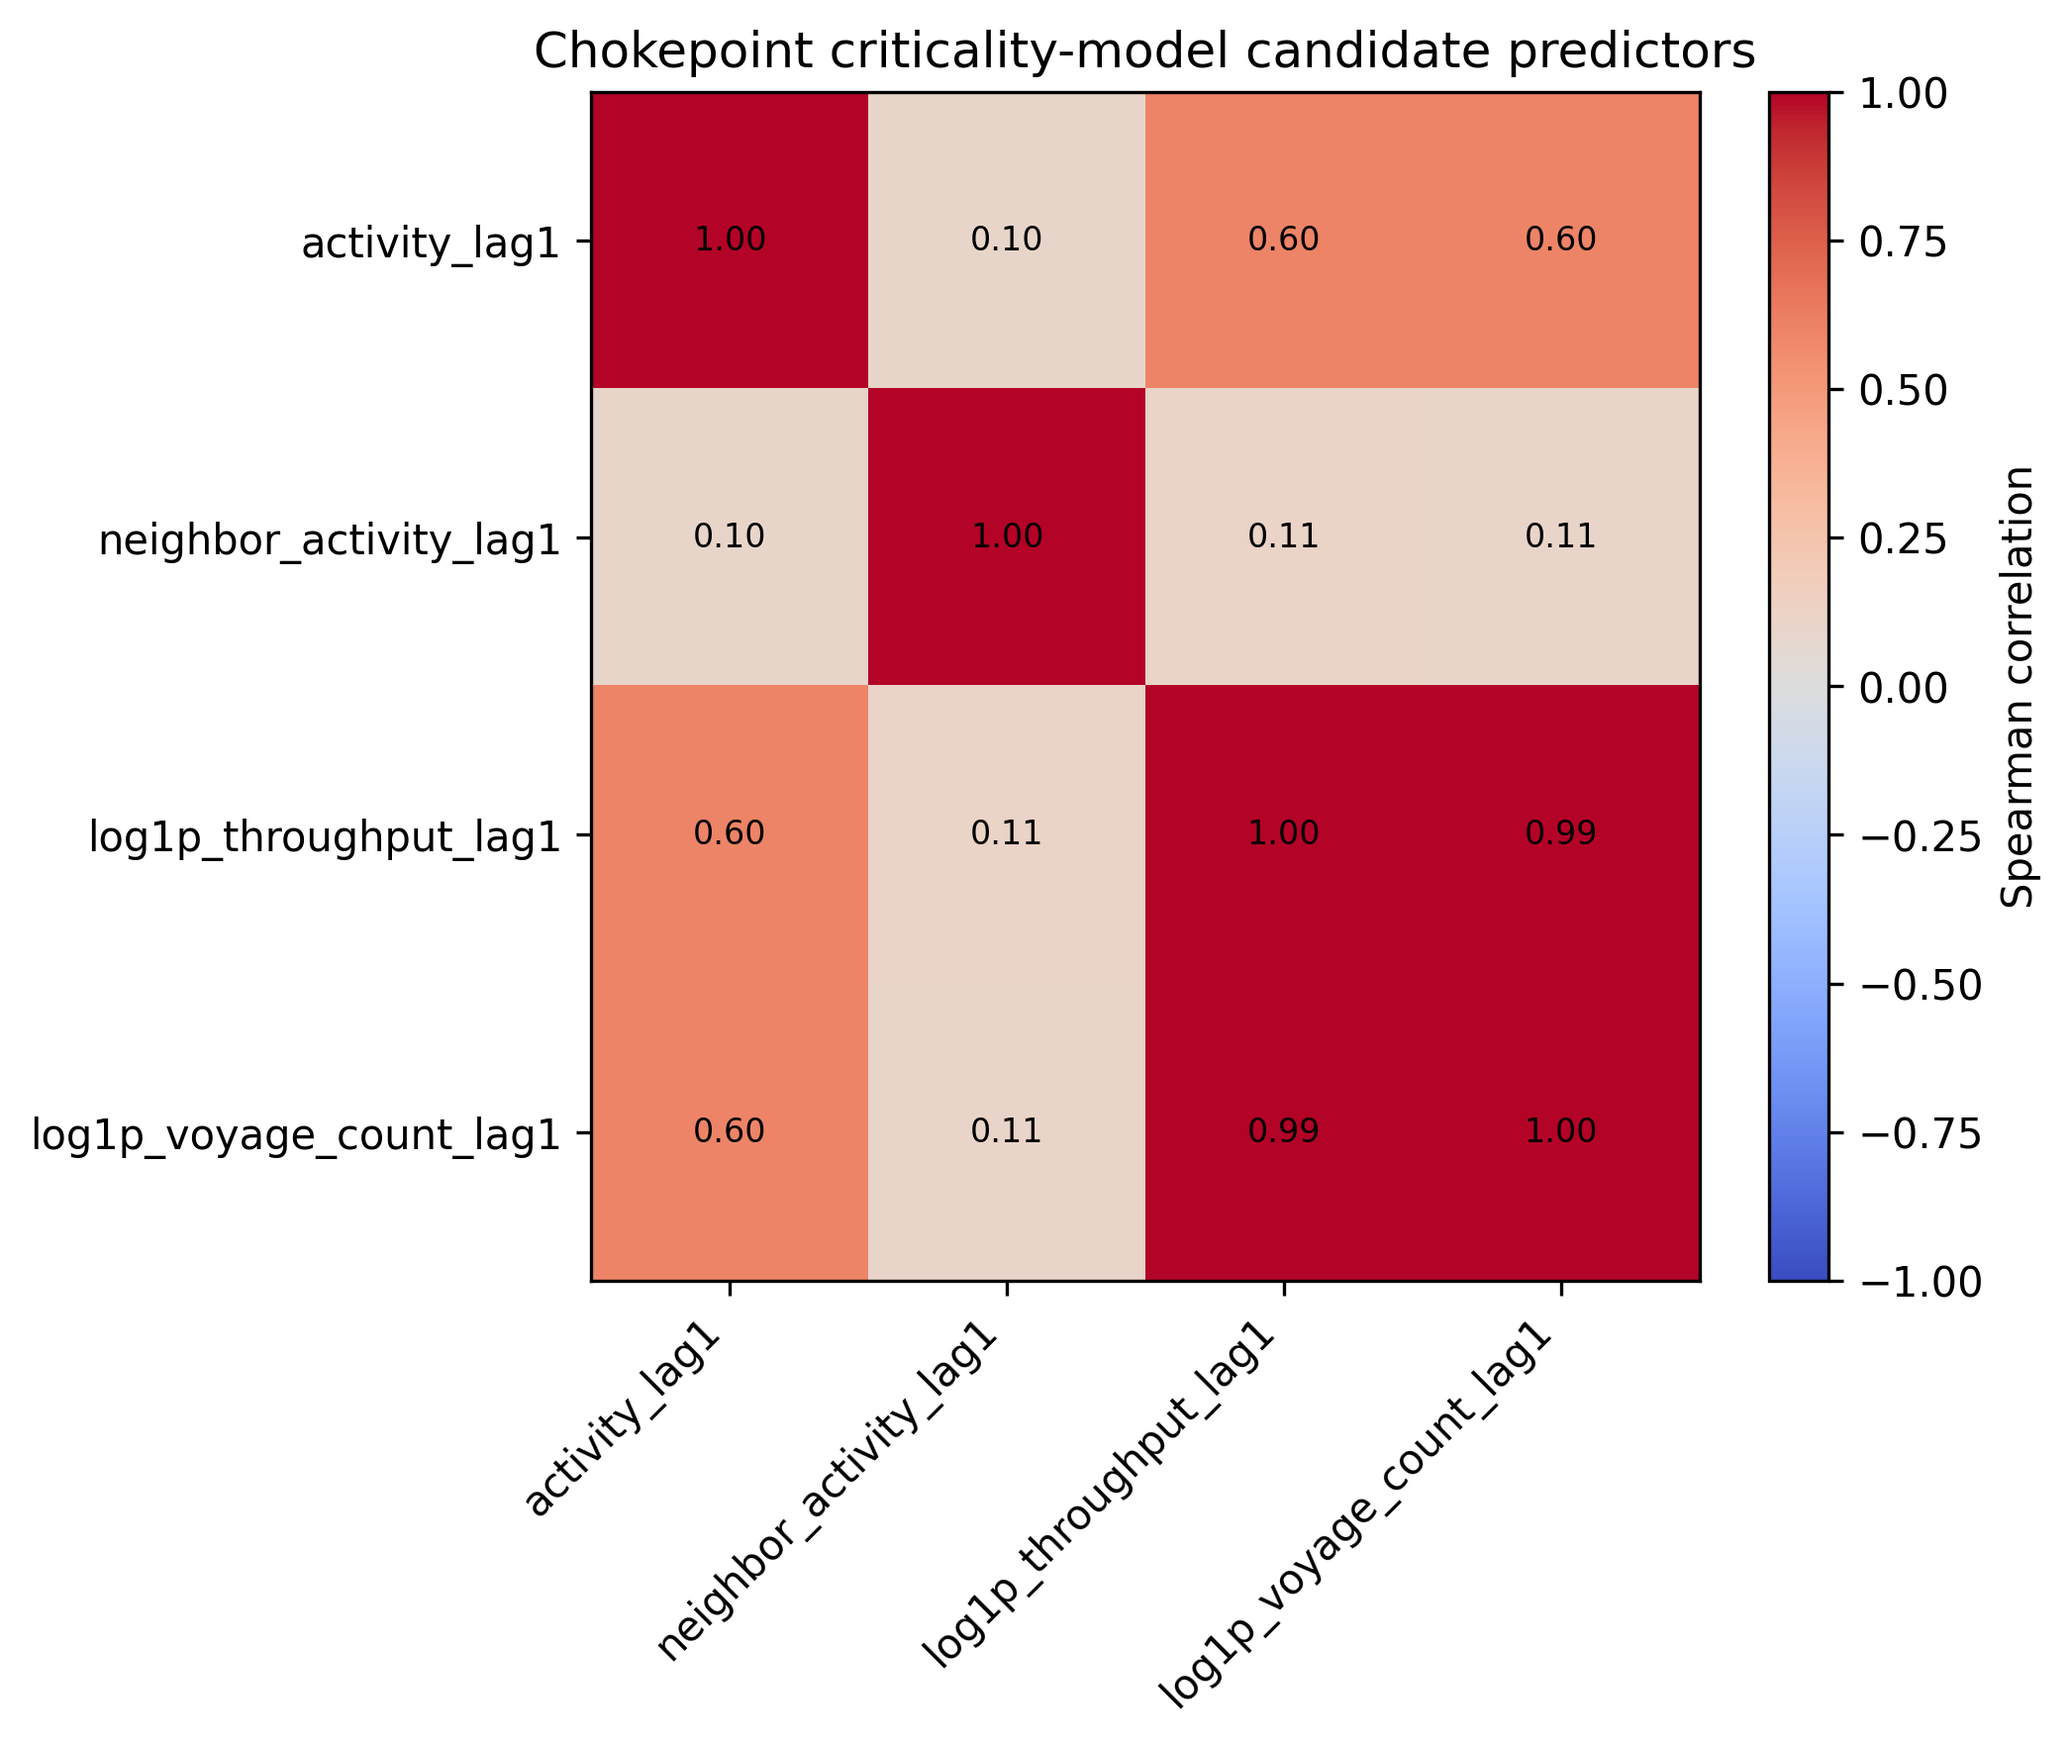
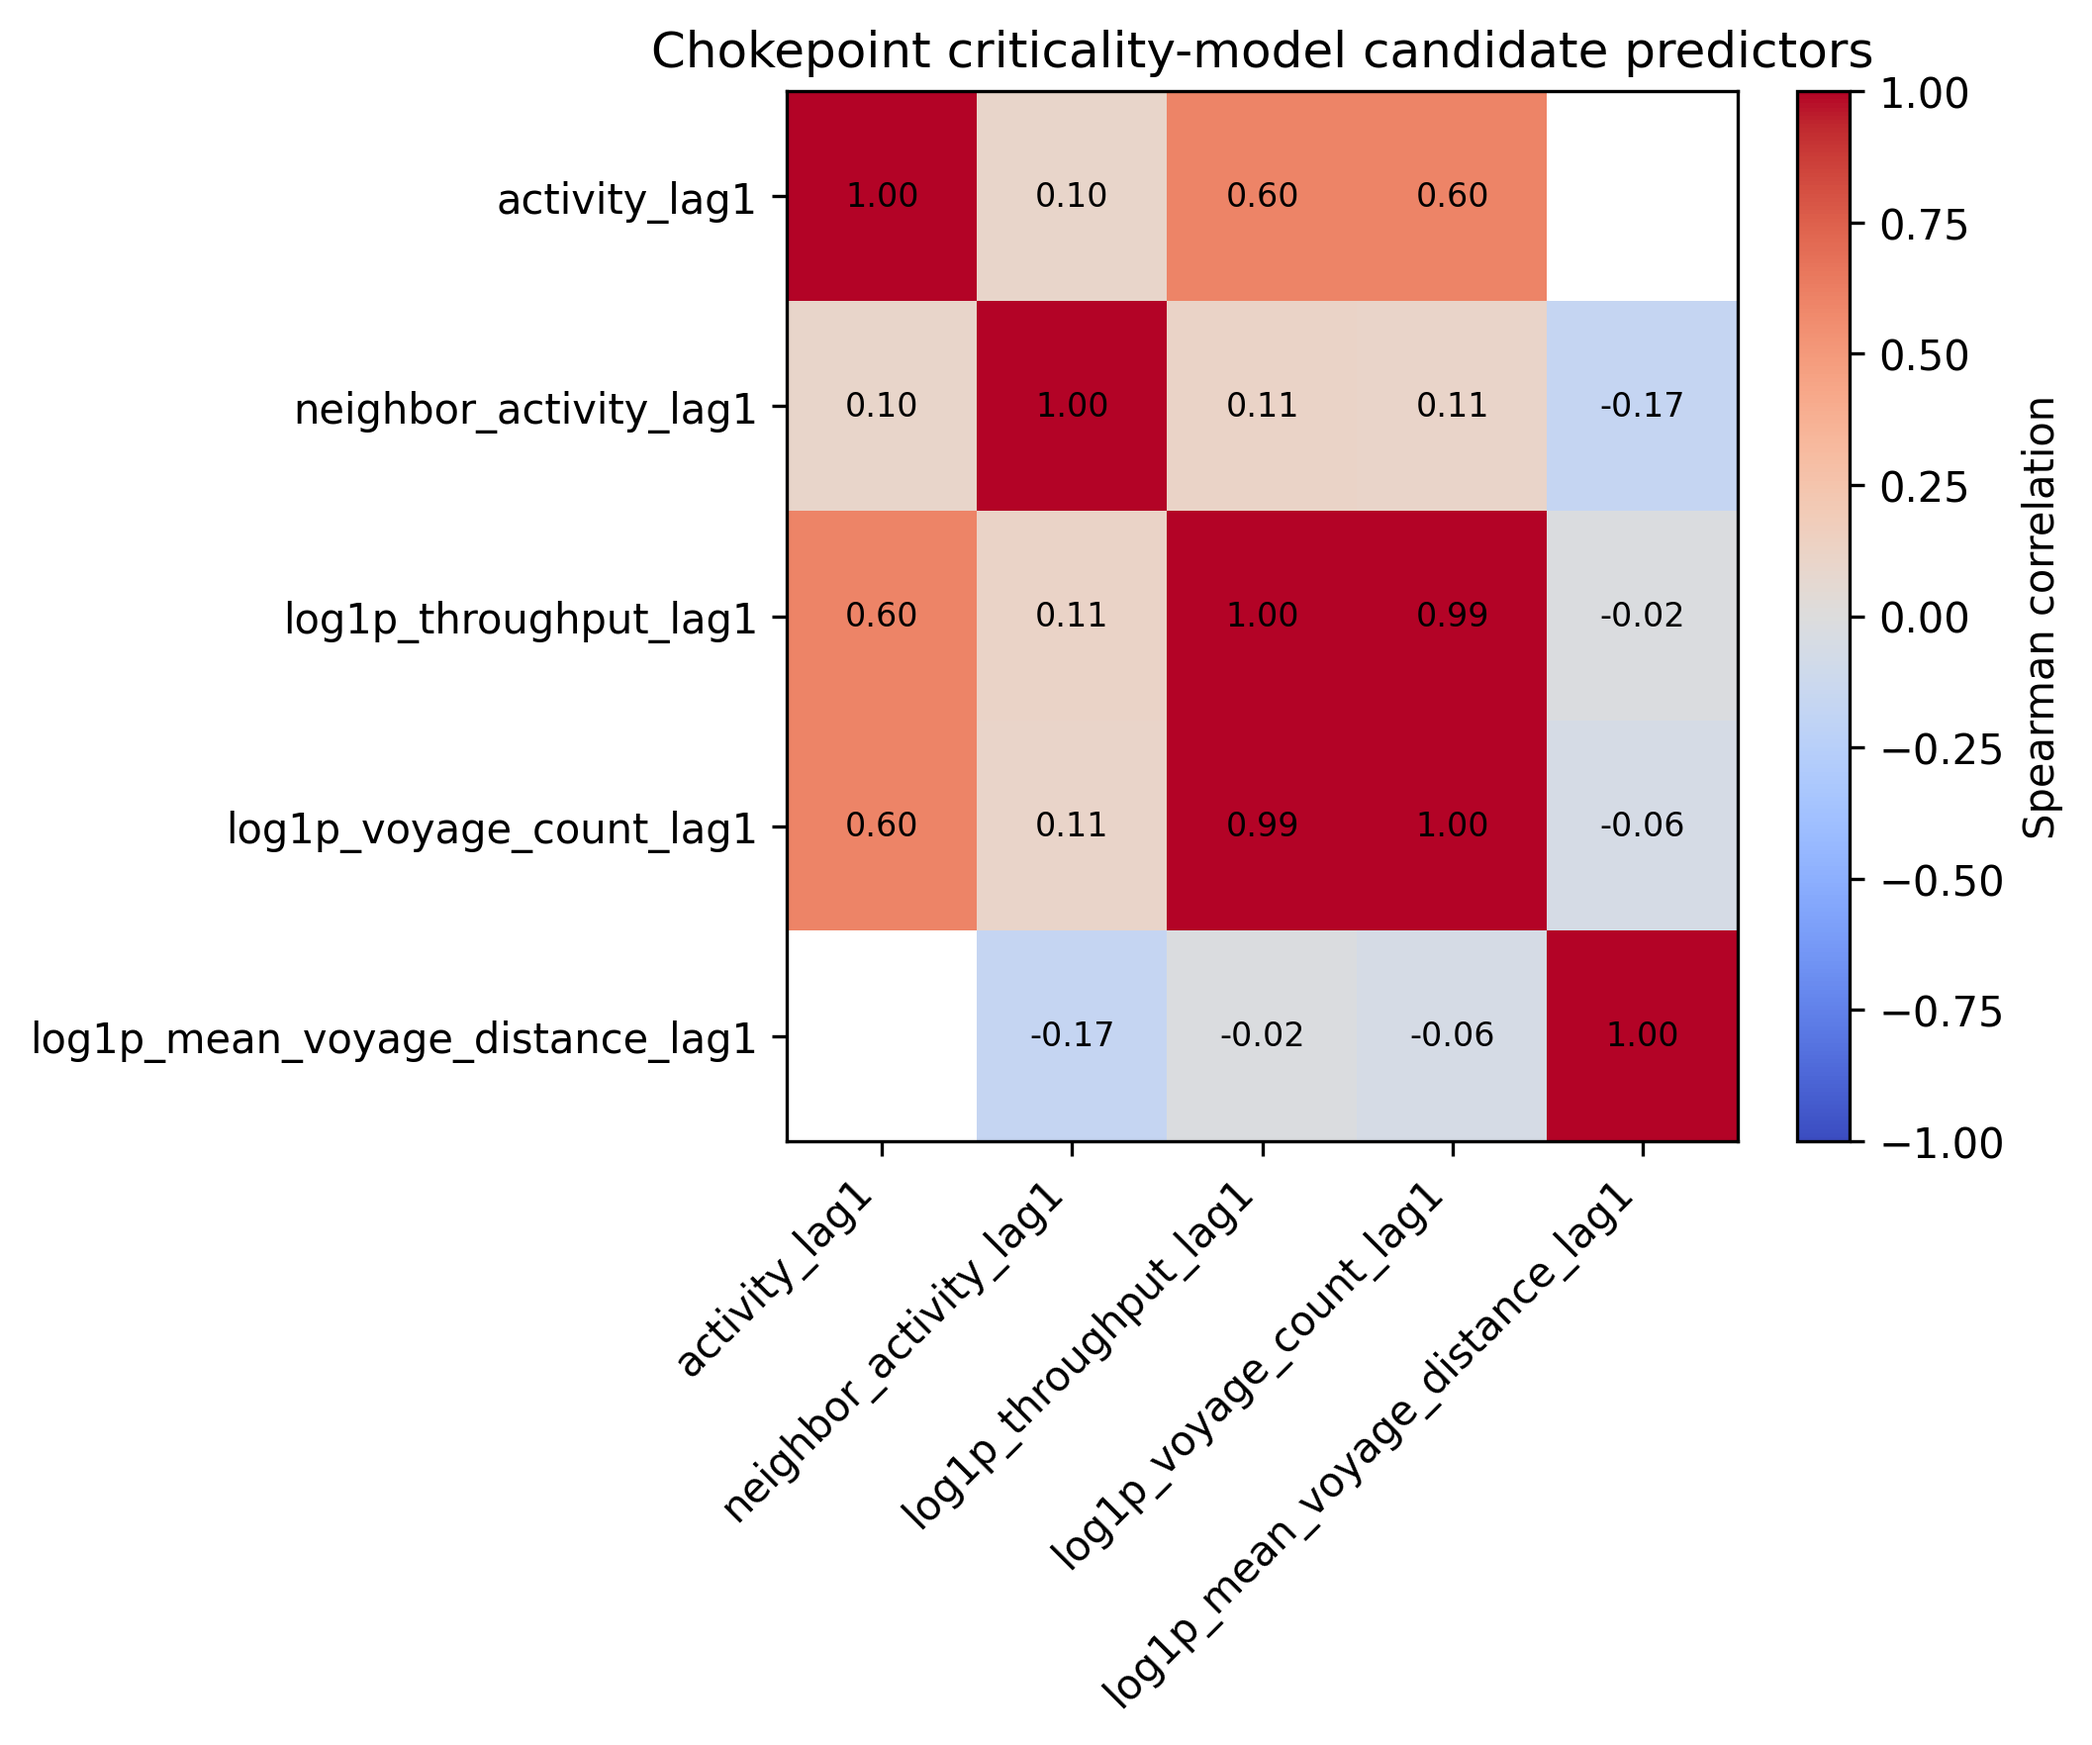
add mean voyage distance to chokepoints

diff --git a/scripts/analysis/build_model_ready_panels.py b/scripts/analysis/build_model_ready_panels.py
@@ -22,6 +22,7 @@ PROCESSED_DIR = BASE_DIR / "data" / "processed"
 NODE_MONTH_FILE = (
     BASE_DIR / "eda_outputs" / "node_month" / "data" / "node_month_metrics.csv"
 )
+
 TERMINAL_MONTH_FILE = (
     BASE_DIR
     / "eda_outputs"
@@ -36,8 +37,13 @@ STRUCTURE_FILE = (
     / "data"
     / "node_month_structure_metrics.csv"
 )
+
 NODES_FILE = PROCESSED_DIR / "LNG_multilayer_nodes_observed.csv"
 EDGES_FILE = PROCESSED_DIR / "LNG_multilayer_edges_monthly.csv"
+
+CHOKEPOINT_DISTANCE_FILE = (
+    PROCESSED_DIR / "chokepoint_month_voyage_distance.csv"
+)
 
 OUTPUT_DIR = PROCESSED_DIR / "model_ready"
 MODEL_DIAGNOSTICS_DIR = (
@@ -80,6 +86,11 @@ def load_inputs():
     terminal_month = read_monthly_csv(TERMINAL_MONTH_FILE, ["terminal_id"])
     structure = read_monthly_csv(STRUCTURE_FILE, ["node_id"])
 
+    chokepoint_distance = read_monthly_csv(
+        CHOKEPOINT_DISTANCE_FILE,
+        ["node_id"],
+    )
+    
     nodes = pd.read_csv(NODES_FILE)
     edges = pd.read_csv(EDGES_FILE)
     require_columns(
@@ -98,7 +109,7 @@ def load_inputs():
     edges["to_node_id"] = edges["to_node_id"].astype(str)
     edges["period_month"] = pd.to_datetime(edges["period_month"], errors="raise")
 
-    return node_month, terminal_month, structure, nodes, edges
+    return node_month, terminal_month, structure, nodes, edges, chokepoint_distance
 
 
 def add_seasonality(frame):
@@ -375,7 +386,7 @@ def build_terminal_panel(terminal_month, activity_panel, structure, nodes):
     return terminal.sort_values(["period_month", "terminal_id"]).reset_index(drop=True)
 
 
-def build_chokepoint_panel(node_month, activity_panel, structure):
+def build_chokepoint_panel(node_month, activity_panel, structure, chokepoint_distance):
     require_columns(
         node_month,
         {
@@ -419,10 +430,15 @@ def build_chokepoint_panel(node_month, activity_panel, structure):
         how="left",
         validate="one_to_one",
         suffixes=("", "_structure"),
+    ).merge(
+        chokepoint_distance,
+        on=["node_id", "period_month"],
+        how="left",
+        validate="one_to_one",
     )
     
     chokepoints = add_seasonality(chokepoints)
-
+    
     columns_to_drop = [
         "country",
         "flow_imbalance",
@@ -431,10 +447,23 @@ def build_chokepoint_panel(node_month, activity_panel, structure):
 
     chokepoints = chokepoints.drop(columns_to_drop, errors="ignore",)
 
+    chokepoints = chokepoints.sort_values(
+        ["node_id", "period_month"]
+    ).reset_index(drop=True)
+
+    grouped = chokepoints.groupby("node_id", sort=False)
+
+    chokepoints["mean_voyage_distance_lag1"] = (
+        grouped["mean_voyage_distance"].shift(1)
+    )
+
+    chokepoints["log1p_mean_voyage_distance_lag1"] = np.log1p(
+        chokepoints["mean_voyage_distance_lag1"]
+    )
+
     return chokepoints.sort_values(
         ["period_month", "node_id"]
     ).reset_index(drop=True)
-
 # ============================================================
 # MODEL CORRELATION DIAGNOSTICS
 # ============================================================
@@ -602,6 +631,7 @@ def analyze_model_correlations(
         "neighbor_activity_lag1",
         "log1p_throughput_lag1",
         "log1p_voyage_count_lag1",
+        "log1p_mean_voyage_distance_lag1",
     ]
 
     chokepoint_valid = chokepoints.loc[
@@ -671,13 +701,25 @@ def validate_outputs(activity, terminals, chokepoints):
 
 
 def main():
-    node_month, terminal_month, structure, nodes, edges = load_inputs()
+    (
+        node_month,
+        terminal_month,
+        structure,
+        nodes,
+        edges,
+        chokepoint_distance,
+    ) = load_inputs()
     structure = add_structural_indicators(structure, edges)
     activity = build_activity_panel(node_month, nodes, edges)
     terminals = build_terminal_panel(
         terminal_month, activity, structure, nodes
     )
-    chokepoints = build_chokepoint_panel(node_month, activity, structure)
+    chokepoints = build_chokepoint_panel(
+        node_month,
+        activity,
+        structure,
+        chokepoint_distance,
+    )
     validate_outputs(activity, terminals, chokepoints)
     
     analyze_model_correlations(

diff --git a/scripts/data_construction/04_build_multilayer_network.py b/scripts/data_construction/04_build_multilayer_network.py
@@ -156,6 +156,7 @@ def load_voyages(path: Path) -> tuple[pd.DataFrame, dict[str, int | float]]:
         "IMO",
         "voyage",
         "amount_cmb",
+        "voyage_distance",
         "from_node_id",
         "to_node_id",
         "from_terminal",
@@ -166,7 +167,11 @@ def load_voyages(path: Path) -> tuple[pd.DataFrame, dict[str, int | float]]:
     voyages["start_date"] = pd.to_datetime(voyages["start_date"], errors="coerce")
     voyages["end_date"] = pd.to_datetime(voyages["end_date"], errors="coerce")
     voyages["amount_cmb"] = pd.to_numeric(voyages["amount_cmb"], errors="coerce")
-
+    voyages["voyage_distance"] = pd.to_numeric(
+        voyages["voyage_distance"],
+        errors="coerce",
+    )
+    
     voyages = voyages.loc[
         voyages["voyage"].astype(str).str.lower().eq("export")
         & voyages[DATE_COLUMN].notna()
@@ -351,6 +356,43 @@ def attach_routes(voyages: pd.DataFrame, routes: pd.DataFrame) -> pd.DataFrame:
         raise ValueError(f"Voyages without a reconstructed route: {examples}")
     return merged
 
+def build_chokepoint_voyage_distance(
+    voyages: pd.DataFrame,
+    nodes: pd.DataFrame,
+) -> pd.DataFrame:
+    """Mean total OD voyage distance for voyages traversing each chokepoint-month."""
+
+    node_types = nodes.set_index("node_id")["node_type"].to_dict()
+    records = []
+
+    for voyage in voyages.itertuples(index=False):
+        if pd.isna(voyage.voyage_distance) or voyage.voyage_distance <= 0:
+            continue
+
+        for node_id in voyage.path_nodes:
+            if node_types.get(node_id) == "chokepoint":
+                records.append(
+                    {
+                        "period_month": voyage.period_month,
+                        "node_id": node_id,
+                        "voyage_distance": voyage.voyage_distance,
+                    }
+                )
+
+    traversals = pd.DataFrame(records)
+
+    return (
+        traversals.groupby(
+            ["period_month", "node_id"],
+            as_index=False,
+        )
+        .agg(
+            mean_voyage_distance=("voyage_distance", "mean"),
+            distance_voyage_count=("voyage_distance", "size"),
+        )
+        .sort_values(["period_month", "node_id"])
+        .reset_index(drop=True)
+    )
 
 def expand_voyages(voyages: pd.DataFrame) -> pd.DataFrame:
     records: list[dict] = []
@@ -546,6 +588,10 @@ def main() -> None:
     )
 
     voyages = attach_routes(voyages, routes)
+    chokepoint_distance = build_chokepoint_voyage_distance(
+        voyages,
+        nodes,
+    )
     traversals = expand_voyages(voyages)
     edges = build_edges(traversals, voyages, nodes)
     monthly_qa = build_monthly_qa(voyages, edges, nodes)
@@ -554,7 +600,15 @@ def main() -> None:
     args.output_dir.mkdir(parents=True, exist_ok=True)
     observed_nodes_path = (
         args.output_dir / DEFAULT_OBSERVED_NODES)
+    
+    chokepoint_distance_path = (
+        args.output_dir / "chokepoint_month_voyage_distance.csv"
+    )
 
+    chokepoint_distance.to_csv(
+        chokepoint_distance_path,
+        index=False,
+    )
     edges_path = args.output_dir / DEFAULT_EDGES
     qa_path = args.output_dir / DEFAULT_MONTHLY_QA
 
